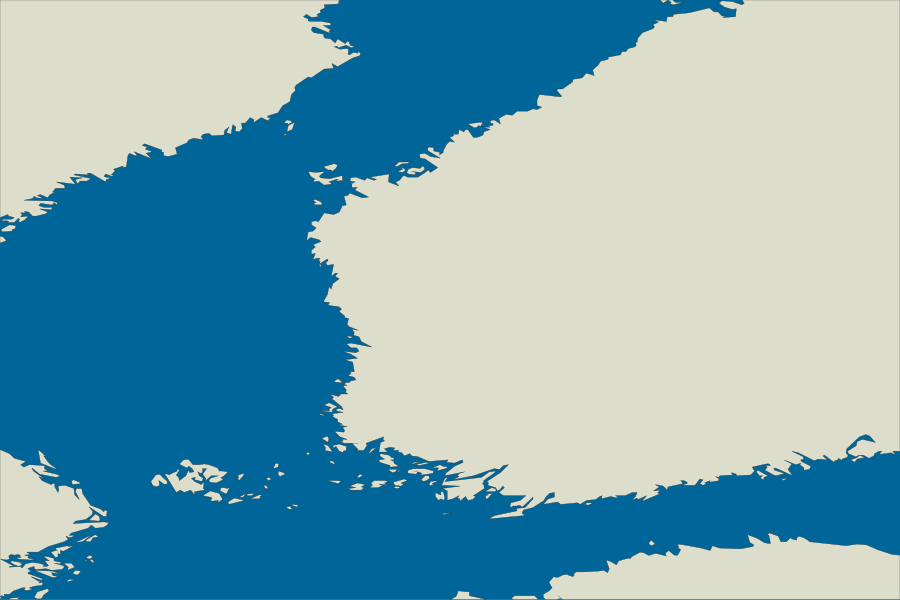
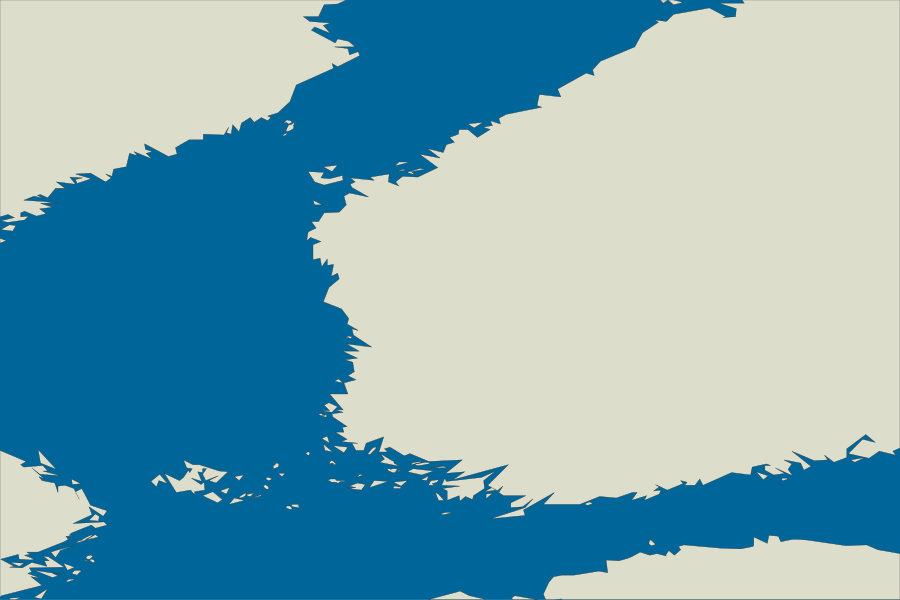
Map simplification examples: increase DP/VW tolerances for clearer effect
DP @ 1 px â 3 px (64 % â 76 % vertex reduction)
VW @ 2 px â 5 px (67 % â 72 % vertex reduction)

The previous tolerances were close to the source data's vertex spacing
and produced barely-distinguishable output. The new values clearly
exhibit each algorithm's character: DP shows the spiky/saw-toothed
coastline that comes from keeping the furthest-from-chord vertices,
VW shows the blockier-but-shape-preserving result of area-based
removal.

diff --git a/docs/reference.md b/docs/reference.md
@@ -4266,8 +4266,8 @@ The five examples below are drawn from the regression suite (`test/dali/customer
 | Description                                                                                                                                                                          | Map JSON snippet                                                                                                                                              |
 | ------------------------------------------------------------------------------------------------------------------------------------------------------------------------------------ | ------------------------------------------------------------------------------------------------------------------------------------------------------------- |
 | `map_baseline.json` — no simplification. Reference image showing the full source resolution (≈ 4 080 vertices for the four-country selection).                                       | `{ "schema": "natural_earth", "table": "admin_0_countries", "where": "iso_a2 IN ('FI','SE','AX','EE')" }`                                                     |
-| `map_simplifier_dp.json` — Douglas-Peucker @ 1 px (~64 % vertex reduction). Visible angular cuts on the curved coastline; instructive but not the recommended choice for coastlines. | `{ ..., "simplifier": "douglas_peucker", "tolerance": 1.0 }`                                                                                                  |
-| `map_simplifier_vw.json` — Visvalingam-Whyatt @ 2 px (~67 % reduction). Smoother result than DP; the recommended default for natural coastlines.                                     | `{ ..., "simplifier": "visvalingam_whyatt", "tolerance": 2.0 }`                                                                                               |
+| `map_simplifier_dp.json` — Douglas-Peucker @ 3 px (~76 % vertex reduction). Spiky/saw-toothed coastline; instructive but not the recommended choice for natural features. | `{ ..., "simplifier": "douglas_peucker", "tolerance": 3.0 }`                                                                                                  |
+| `map_simplifier_vw.json` — Visvalingam-Whyatt @ 5 px (~72 % reduction). Blockier than the baseline but preserves the overall shape character; the recommended default for natural coastlines. | `{ ..., "simplifier": "visvalingam_whyatt", "tolerance": 5.0 }`                                                                                               |
 | `map_amalgamate.json` — amalgamation only, `amalgamation_length=0.05`, `amalgamation_area=0.0005` (≈ 3 km gap, ≈ 1.5 km² minimum island). Archipelago islands merge into chunkier outlines while distinct islands and the mainland coast are kept. | `{ ..., "amalgamation_length": 0.05, "amalgamation_area": 0.0005 }`                                                                                            |
 | `map_amalgamate_simplified.json` — same amalgamation followed by Visvalingam-Whyatt @ 1.5 px. The recommended pipeline for archipelago / dense-coastline rendering.                  | `{ ..., "amalgamation_length": 0.05, "amalgamation_area": 0.0005, "simplifier": "visvalingam_whyatt", "tolerance": 1.5 }`                                     |
 

diff --git a/docs/examples/dali.md b/docs/examples/dali.md
@@ -3039,7 +3039,7 @@ GET /dali?customer=test&product=map_simplifier_dp HTTP/1.0
 |-----------|-------|-------------|
 | `product` | `map_simplifier_dp` | [`test/dali/customers/test/products/map_simplifier_dp.json`](../../test/dali/customers/test/products/map_simplifier_dp.json) |
 
-Same data as the baseline with `simplifier="douglas_peucker"` and `tolerance=1.0` pixels (the pixel tolerance is converted to CRS coordinate units per request using the projection box). About 64 % of the source vertices are removed. Douglas-Peucker keeps the points furthest from the chord between consecutive anchors, which on a smoothly-curving coastline tends to keep the tips of peninsulas and straight-cut the bays in between, producing slightly angular output even at low tolerance. Use DP for polygonal/man-made features (administrative borders, building footprints) or when you need a strict "max perpendicular error" guarantee; Visvalingam-Whyatt below is usually a better fit for natural coastlines.
+Same data as the baseline with `simplifier="douglas_peucker"` and `tolerance=3.0` pixels (the pixel tolerance is converted to CRS coordinate units per request using the projection box). About 76 % of the source vertices are removed. Douglas-Peucker keeps the points furthest from the chord between consecutive anchors, which on a smoothly-curving coastline tends to keep the tips of peninsulas and straight-cut the bays in between — at this aggressive tolerance the result is visibly spiky/saw-toothed. Use DP for polygonal/man-made features (administrative borders, building footprints) or when you need a strict "max perpendicular error" guarantee; Visvalingam-Whyatt below is usually a better fit for natural coastlines.
 
 **Output:**
 
@@ -3059,7 +3059,7 @@ GET /dali?customer=test&product=map_simplifier_vw HTTP/1.0
 |-----------|-------|-------------|
 | `product` | `map_simplifier_vw` | [`test/dali/customers/test/products/map_simplifier_vw.json`](../../test/dali/customers/test/products/map_simplifier_vw.json) |
 
-Same data as the baseline with `simplifier="visvalingam_whyatt"` and `tolerance=2.0` pixels. About 67 % of the source vertices are removed. VW iteratively removes the vertex whose triangle (with its neighbours) has the smallest area, which preserves overall shape character better than DP at the same vertex-reduction level — bays and peninsulas remain recognisable rather than being straight-cut. This is the recommended default for natural coastlines, rivers, and lake outlines.
+Same data as the baseline with `simplifier="visvalingam_whyatt"` and `tolerance=5.0` pixels (a pixel² area threshold for VW, applied after bbox conversion to CRS units). About 72 % of the source vertices are removed. VW iteratively removes the vertex whose triangle with its neighbours has the smallest area, which preserves the overall shape character better than DP at the same vertex-reduction level — bays and peninsulas remain recognisable rather than being straight-cut, and the silhouette is blockier rather than spiky. This is the recommended default for natural coastlines, rivers, and lake outlines.
 
 **Output:**
 
